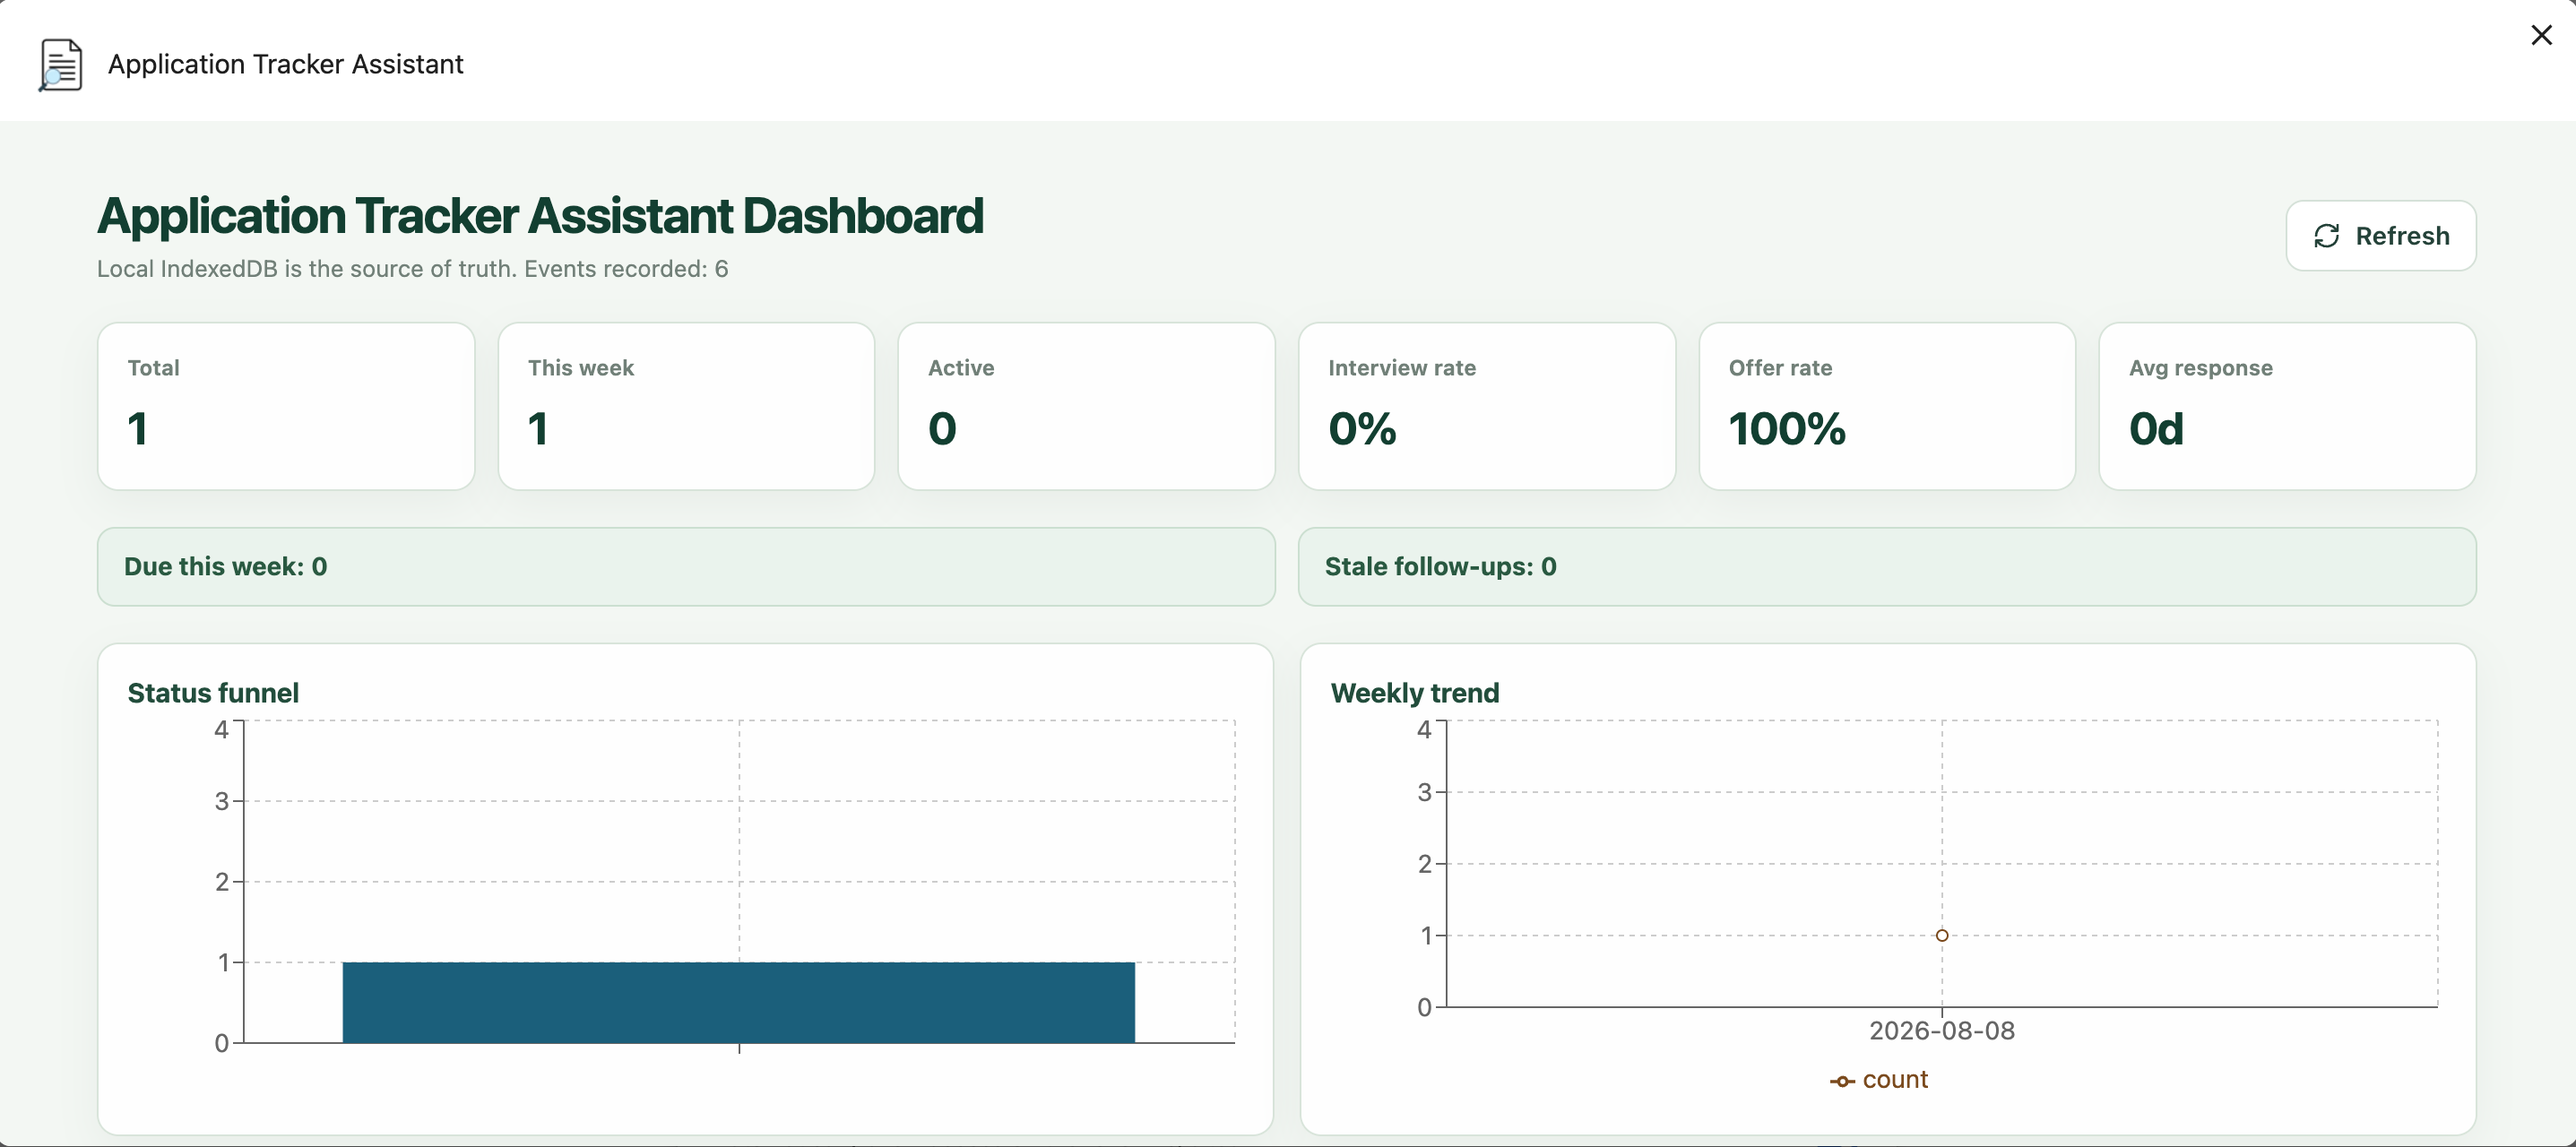
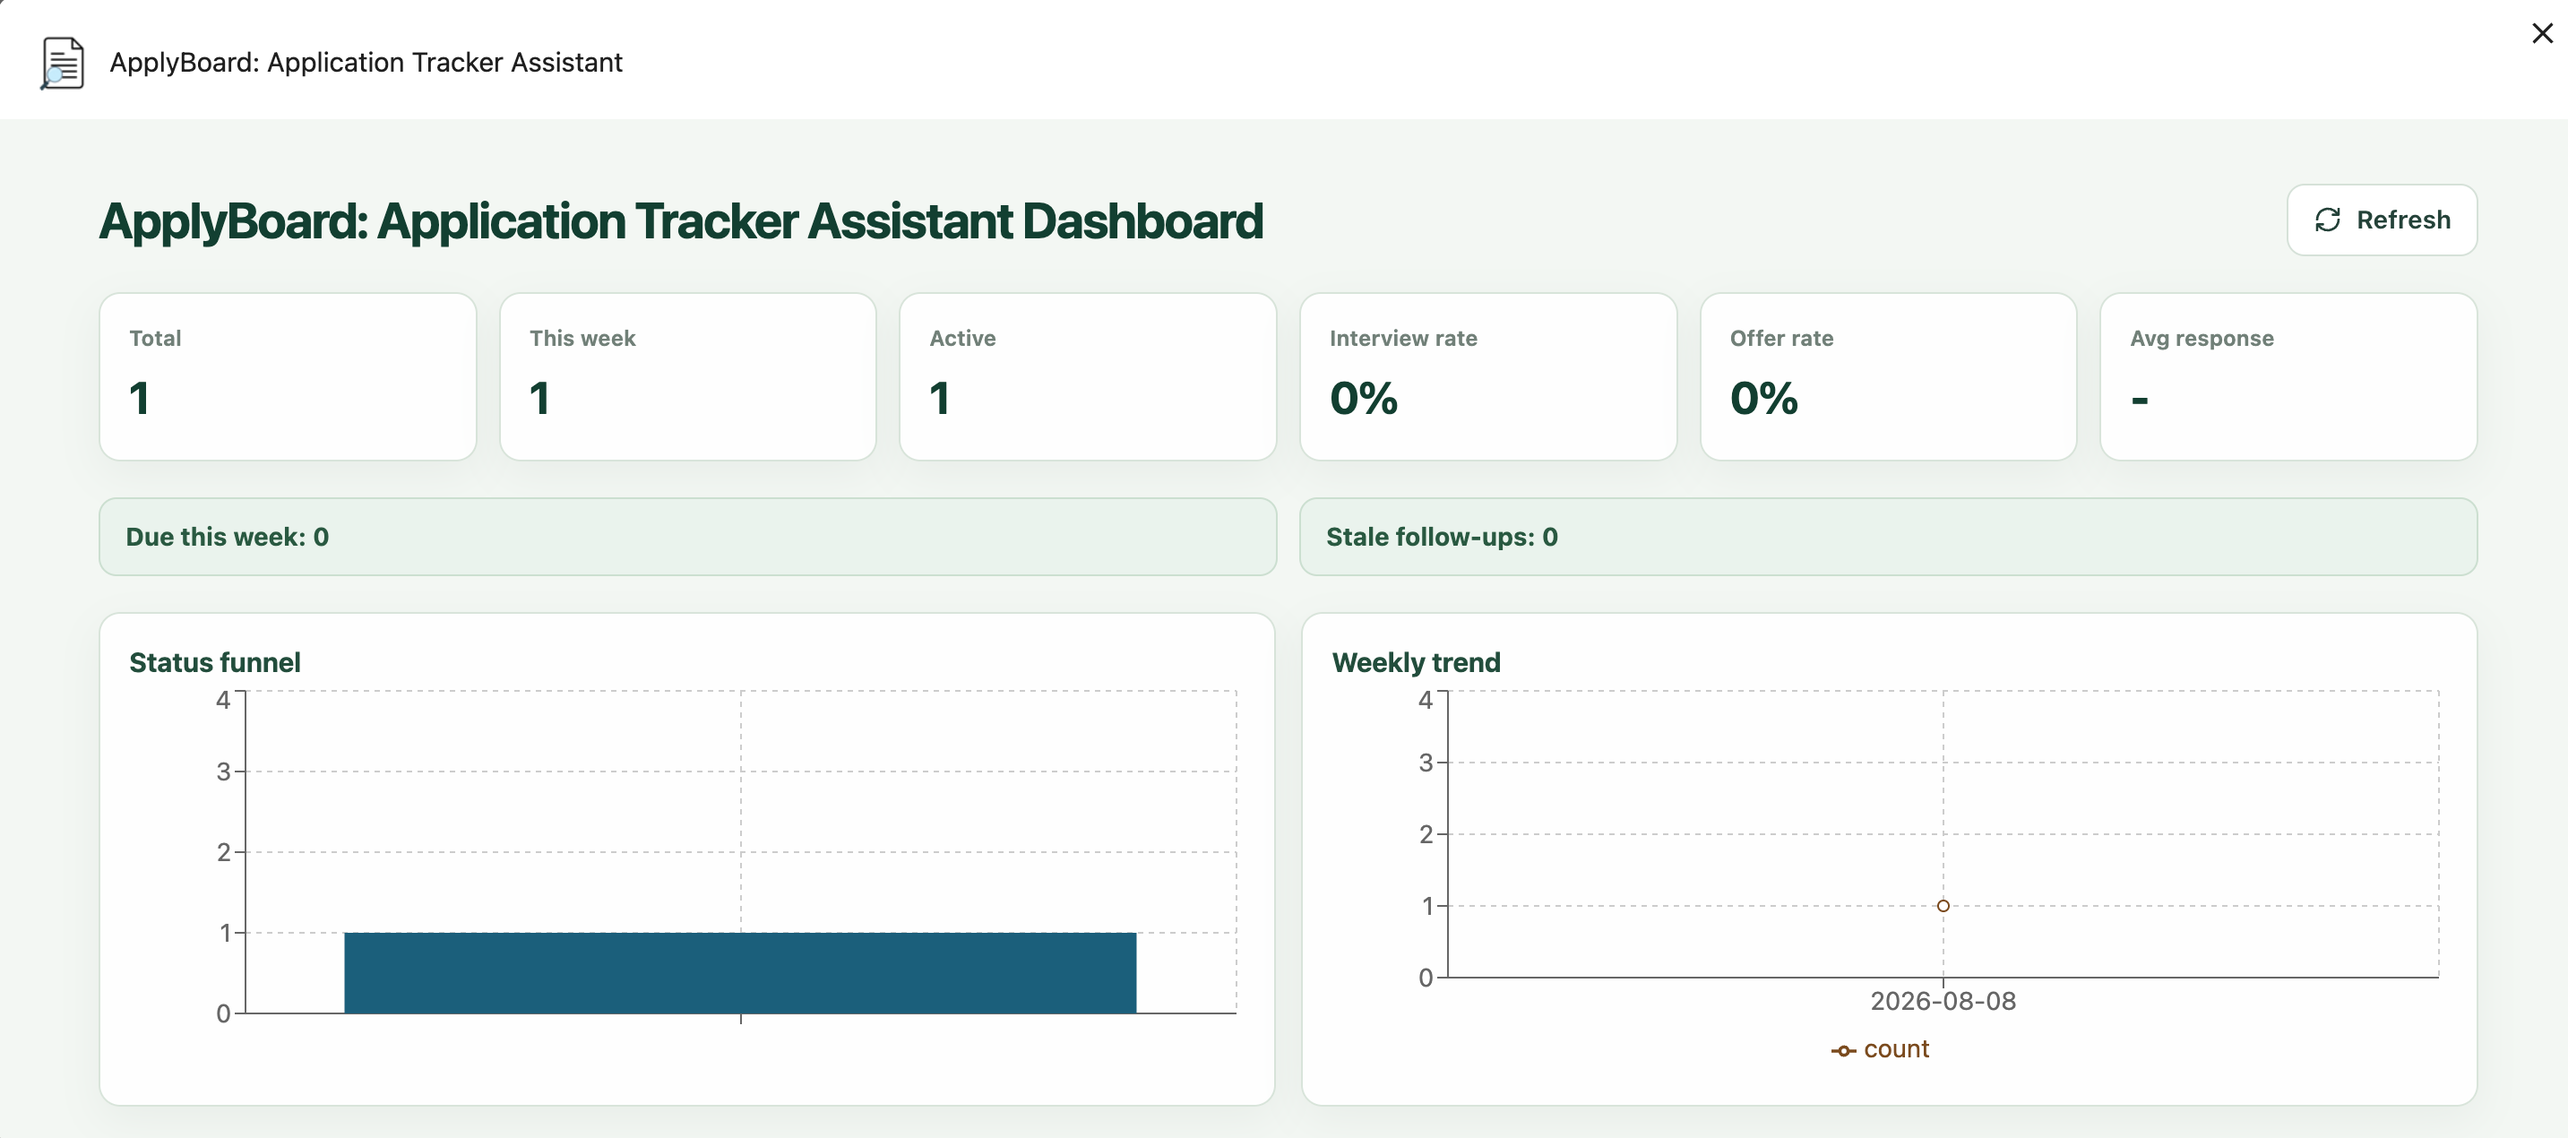
Update documentation

diff --git a/README.zh-CN.md b/README.zh-CN.md
@@ -1,9 +1,9 @@
 # ApplyBoard
 
-一个轻量化浏览器扩展，用于从访问的页面中追踪职位、学校和奖学金申请。
+一个轻量化浏览器扩展，用于从访问的页面中追踪职位和学校申请。
 
 <p align="center">
-  <img src="img/dashboard.png" alt="ApplyBoard dashboard" width="900" />
+  <img src="img/dashboard.png" alt="Dashboard" width="66%" />
 </p>
 
 [English](README.md) | [简体中文](README.zh-CN.md)
@@ -56,6 +56,13 @@ corepack pnpm --filter @application-tracker/extension build:edge # microsoft edg
 3. 点击 **加载已解压的扩展程序**（Load unpacked）。
 4. 选择以下目录：`apps/extension/output/<browser>-mv3`
 5. 加载整个文件夹。
+
+## 示例用法
+
+<p align="center">
+  <img src="img/usage.png" alt="usage-example" width="400" />
+  <img src="img/entries.png" alt="entries" width="400" />
+</p>
 
 ## 贡献
 

diff --git a/README.md b/README.md
@@ -1,9 +1,9 @@
 # ApplyBoard
 
-A lightweight browser extension for tracking job, school, and scholarship applications from the pages you visit.
+A lightweight browser extension for tracking job and degree applications from the pages you visit.
 
 <p align="center">
-  <img src="img/dashboard.png" alt="ApplyBoard dashboard" width="900" />
+  <img src="img/dashboard.png" alt="Dashboard" width="66%" />
 </p>
 
 [English](README.md) | [简体中文](README.zh-CN.md)
@@ -62,6 +62,13 @@ This command generates the extension bundle for the configured browser target.
 5. Load the entire folder.
 
 For local development setup, testing, and contribution workflow, see [CONTRIBUTING.md](CONTRIBUTING.md).
+
+## Example Usage
+
+<p align="center">
+  <img src="img/usage.png" alt="usage-example" width="400" />
+  <img src="img/entries.png" alt="entries" width="400" />
+</p>
 
 ## Privacy
 
